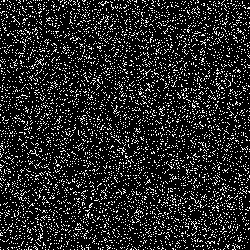
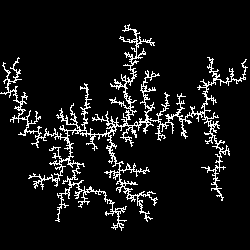
DLA generation working

Changed region(s): [[0.0, 0.0, 1.0, 1.0], [0.28, 0.98, 0.364, 1.0]]

diff --git a/src/main.cpp b/src/main.cpp
@@ -3,6 +3,7 @@
 #include <iostream>
 #include <tuple> // For std::tuple
 #include <cstdlib> // For Random number generation
+#include <ctime> // For time
 
 
 using namespace std;
@@ -10,8 +11,13 @@ using namespace std;
 int width = 250;
 int height = 250;
 
+int total_true = 5000;
+
+vector<int> neighbor_list = {-1, 1};
+
 // Function to create an SFML image from a 2D vector of RGB tuples
-sf::Image createImage(const std::vector<std::vector<bool>>& pixels) {
+sf::Image createImage(const std::vector<std::vector<bool>>& pixels) 
+{
     // Create SFML image object
     sf::Image image;
 
@@ -37,16 +43,88 @@ sf::Image createImage(const std::vector<std::vector<bool>>& pixels) {
     return image;
 }
 
-int main() {
-    // Example usage:
+bool checkNeighbors(const vector<vector<bool>>& pixels, const vector<int> coords)
+{
+    for (int i : neighbor_list) {
+        int new_x = coords[0] + i;
+        int new_y = coords[1];
+
+        if (new_x >= 0 && new_x < width && pixels[new_x][coords[1]]) {
+            return true;
+        }
+
+        new_y = coords[1] + i;
+
+        if (new_y >= 0 && new_y < height && pixels[coords[0]][new_y]) {
+            return true;
+        }
+    }
+
+    return false;
+}
+
+int main() 
+{
+    // Seed the random number generator with current time
+    srand(static_cast<unsigned int>(time(nullptr)));
+
     // Create a sample 2D vector of RGB tuples (10x10 image)
     std::vector<std::vector<bool>> pixels(width, std::vector<bool>(height, false));
 
+    // Initial center pixel
     pixels[width/2][height/2] = true;
 
-    for (int i = 0; i < 10000; i++)
+
+    // 2000 random walk pixels
+    for (int i = 0; i < total_true; i++)
     {
-        pixels[rand()%width][rand()%height] = true;
+        // Generate random initial coordinates
+        int x = rand() % width;
+        int y = rand() % height;
+
+        // Check if coordinates are already occupied
+        if (pixels[x][y])
+        {
+            i--;
+            continue;
+        }
+
+        // Pixel is next to another condition
+        bool friend_pixel = false;
+        // Check for original location
+        friend_pixel = checkNeighbors(pixels, {x, y});
+
+        // Random walk of pixel
+        while (!friend_pixel) 
+        {
+            // Calculate new coordinates based on random movement
+            int x_or_y = rand() % 2;
+
+            if (x_or_y == 0) // X axis random movement by one pixel
+            {
+                x += (rand() % 2 == 0) ? 1 : -1;
+
+                // Clamp to bounds of image
+                if (x < 0) x = 0;
+                if (x >= width) x = width - 1;
+            }
+            else // Y axis random movement by one pixel
+            {
+                y += (rand() % 2 == 0) ? 1 : -1;
+
+                // Clamp to bounds of image
+                if (y < 0) y = 0;
+                if (y >= height) y = height - 1;
+            }
+
+            // Update friend_pixel based on the new coordinates
+            friend_pixel = checkNeighbors(pixels, {x, y});           
+        }
+
+        // When friend_pixel is true, create new "true" value in list, representing a white pixel
+        pixels[x][y] = true;
+        int percentage = (i * 100 / (total_true)) + 1;
+        cout << percentage << "%\n";
     }
 
     // Create SFML image from the 2D vector of RGB tuples
